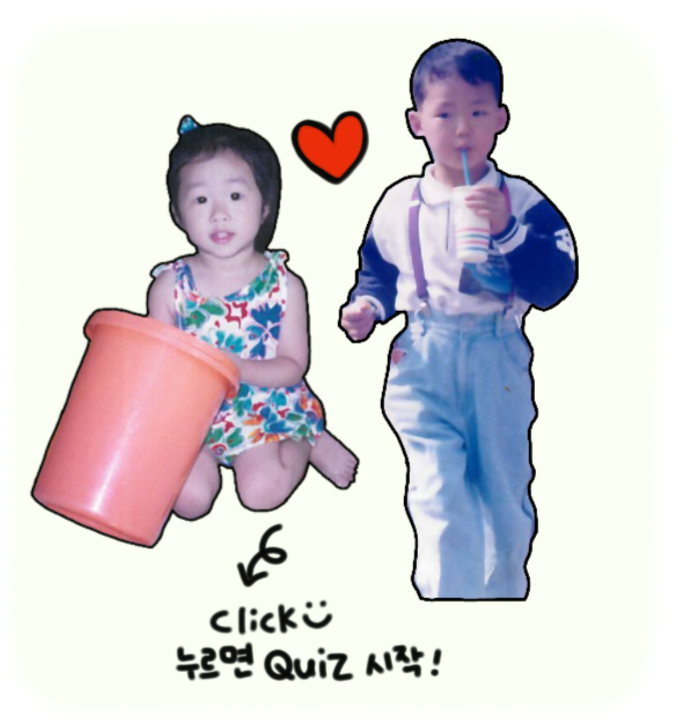
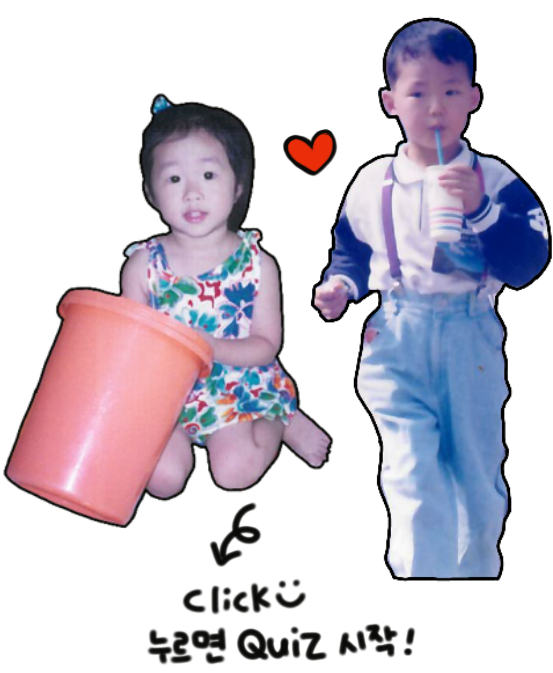
플로팅 버튼 수정

diff --git a/src/layout/FloatingBar/FloatingBar.tsx b/src/layout/FloatingBar/FloatingBar.tsx
@@ -55,14 +55,20 @@ const FloatingBar = ({ isVisible }: { isVisible: boolean }) => {
     <Nav>
         {isVisible && (
           <>
-            <Button onClick={handleCopy}>
-              <Share fill="#8c8c8c"/>
-              공유
-            </Button>
-            <Button onClick={handleScroll}>
-            <Upward fill="#8c8c8c"/>
-            위로
-            </Button>
+            <div style={{width: '50px'}} onClick={handleCopy}>
+              <img src="/share_btn.png" alt="공유"/>
+            </div>
+            <div style={{width: '50px'}} onClick={handleScroll}>
+              <img src="/top_btn.png" alt="위로"/>
+            </div>
+            {/*<Button onClick={handleCopy}>*/}
+            {/*  <Share fill="#8c8c8c"/>*/}
+            {/*  공유*/}
+            {/*</Button>*/}
+            {/*<Button onClick={handleScroll}>*/}
+            {/*<Upward fill="#8c8c8c"/>*/}
+            {/*위로*/}
+            {/*</Button>*/}
           </>
         )}
       <div style={{width: '50px'}} onClick={handleCount}>

diff --git a/src/layout/Quiz/Quiz.tsx b/src/layout/Quiz/Quiz.tsx
@@ -48,7 +48,9 @@ const Quiz: React.FC = () => {
   return (
     <QuizStyle>
       <QuizItemWrapper>
-        <img src="/child.png" alt="어린이사진"/>
+        <img style={{
+          width: '90%',
+          marginRight: 24}} src="/child.png" alt="어린이사진"/>
         {/*<div onClick={() => startQuiz(2)}>*/}
         {/*  <img src="/test_hm.png" alt="애기혜민"/>*/}
         {/*</div>*/}

diff --git a/src/layout/Contact/Host.tsx b/src/layout/Contact/Host.tsx
@@ -41,6 +41,7 @@ const HostInfo = ({ person }: { person: BrideAndGroom }) => {
 
 const HighlightedName = styled.span`
   color: #4f4f4f;
+  font-size: 24px;
 `;
 
 const HostContainer = styled.div`
@@ -57,7 +58,7 @@ const HostDetails = styled.div`
   gap: 6px;
   text-align: center;
   align-items: center;
-  font-size: 24px;
+  font-size: 21px;
 `;
 
 const RelationText = styled.div`

diff --git a/src/layout/Main/Main.tsx b/src/layout/Main/Main.tsx
@@ -12,7 +12,7 @@ const Main = () => {
       {/*<RibbonImg><img src="/yellow-ribbon.png" alt="노란리본"/></RibbonImg>*/}
       <SubTitleImg>
         <div>
-          <img src="/name.png" alt="이름"/>
+          <img src="/main_name.png" alt="이름"/>
         </div>
         <div>
           <img src="/date.png" alt="날짜"/>
